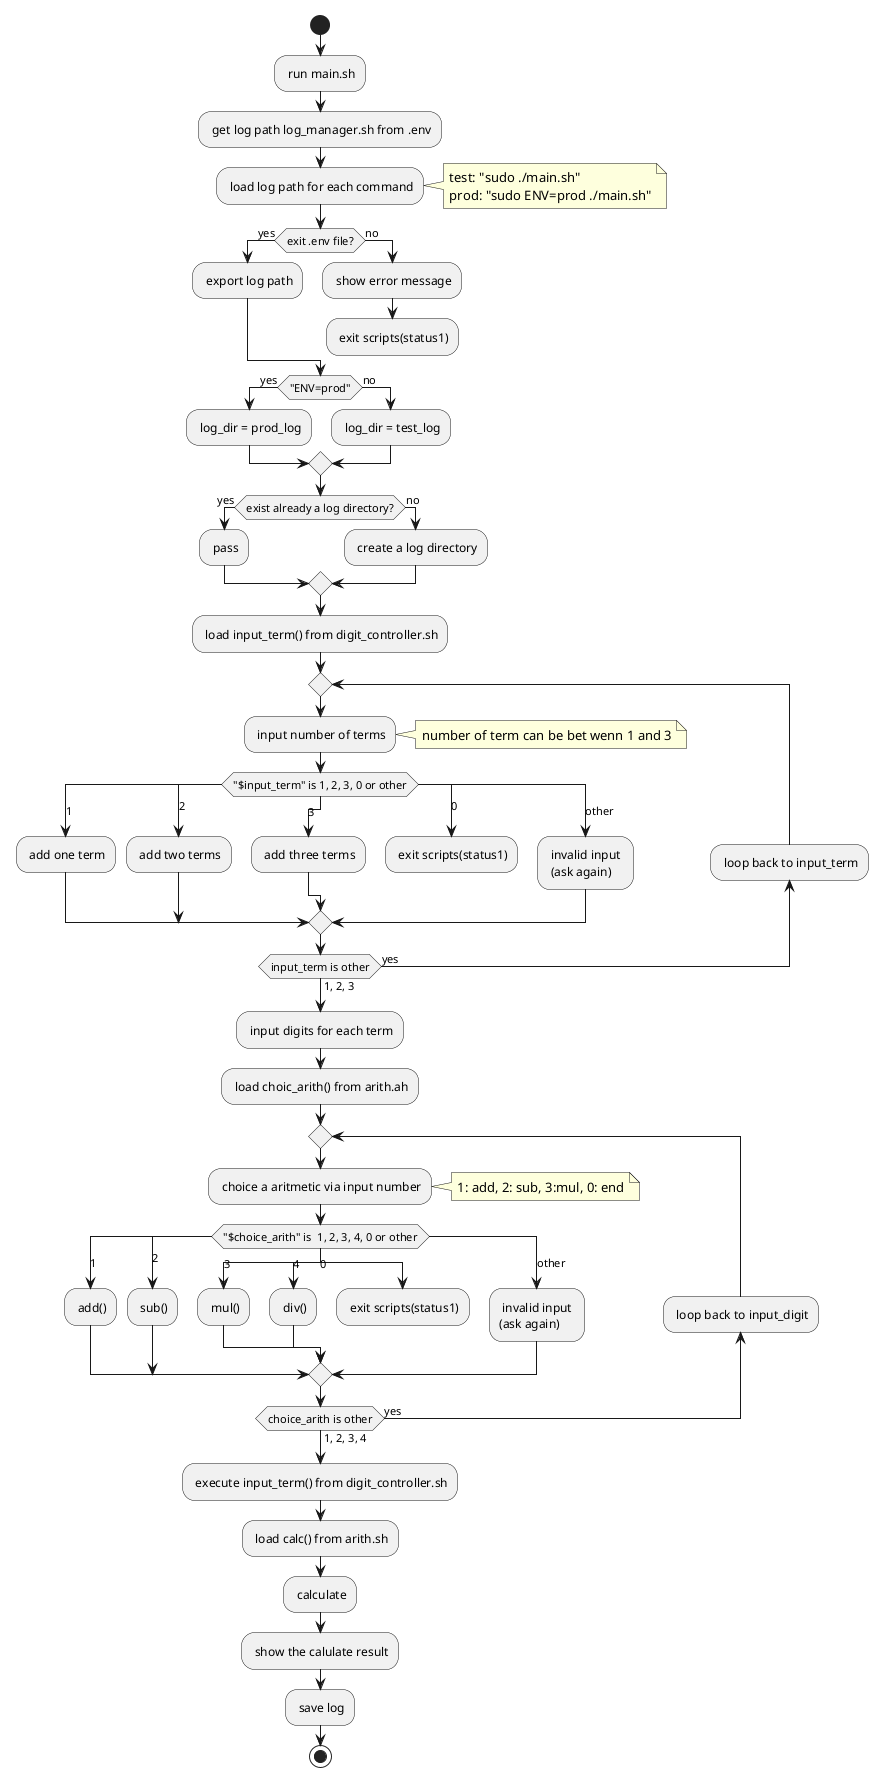
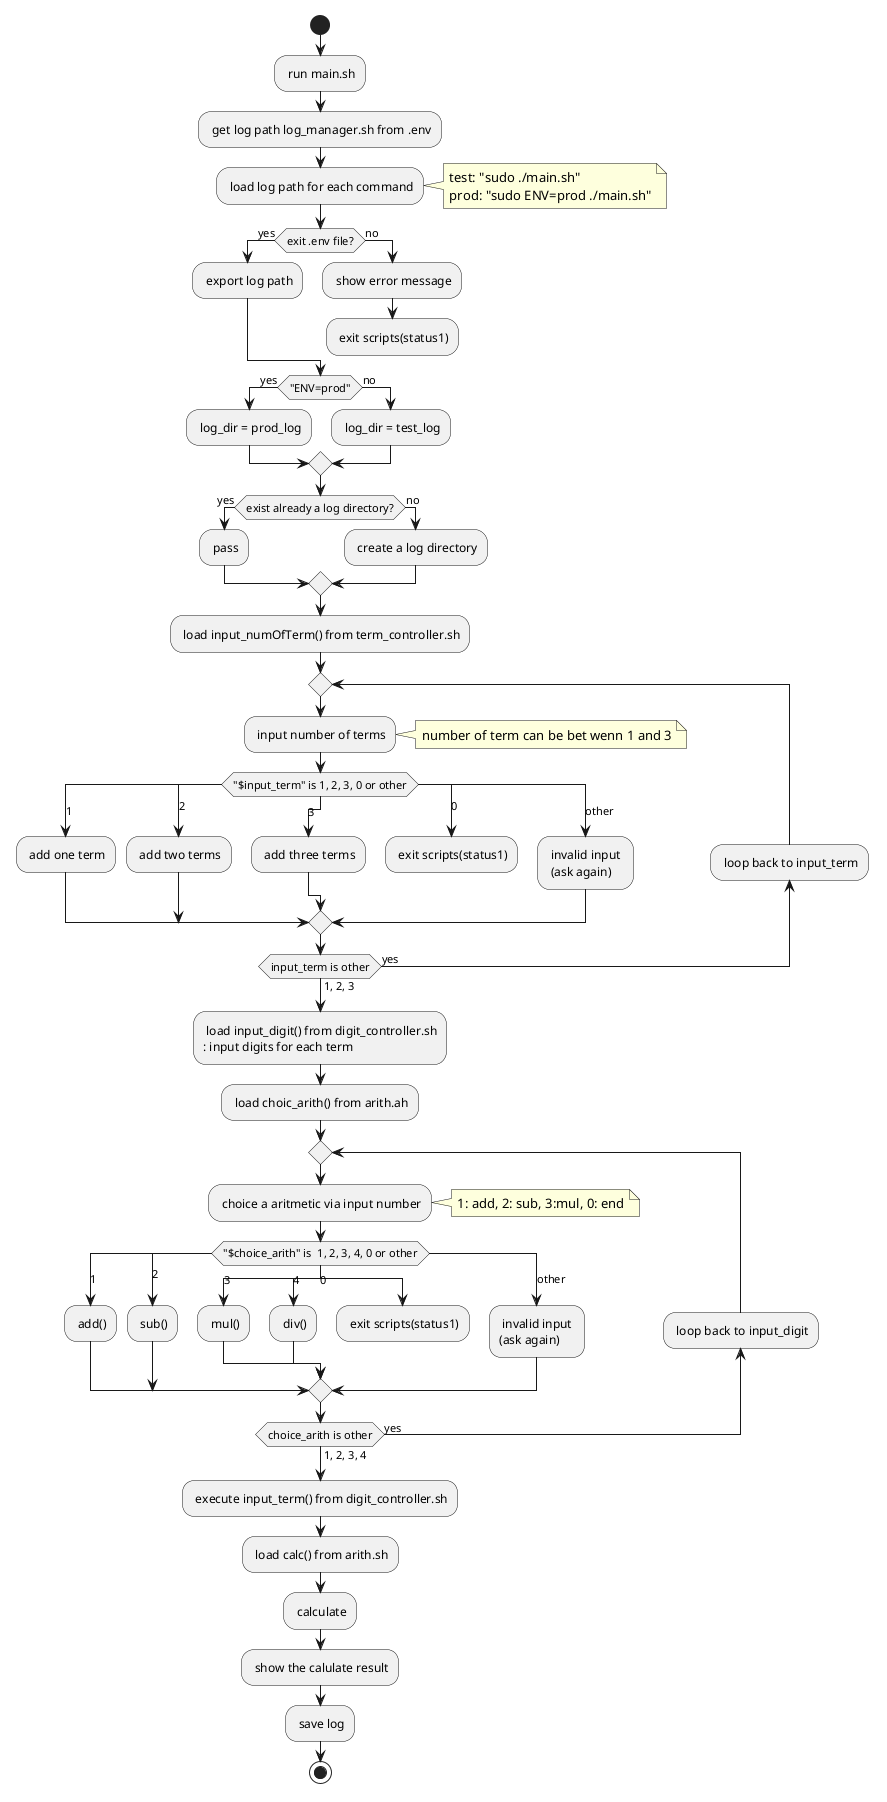
add and edit diagramms

diff --git a/README.md b/README.md
@@ -13,9 +13,12 @@ training basic calclator by while loop
             - .env is saved here and hide directorys path on the gitlab and github.    
     4. "log_manager.sh": 
             - get directorys path and connect this and run command.
-    5. "digit_controller.sh": 
-            - control the input digit and number of term.
-    6. "arith.sh": 
+    5. "term_controller.sh":
+            - controll input number of term(1-3).
+            - if user input 0 exit scripts.
+    6. "digit_controller.sh": 
+            - control the input digit.
+    7. "arith.sh": 
             - set functions for 4 basic calculate(add, sub, mul, div) and they are include by a finction.
             - user can choose a arithmetic operation using by input a number(1: add, 2: sub, 3: mul, 4:div, 0:end scripts).
             - if you user choosen't 1,2,3,4 or 0 then they are asked again.